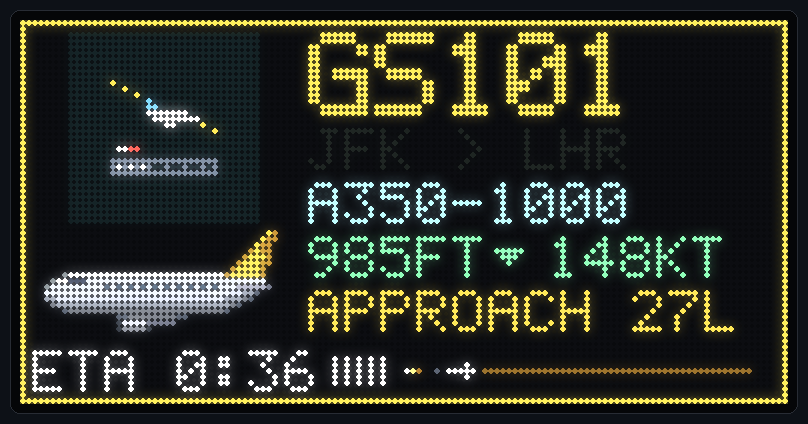
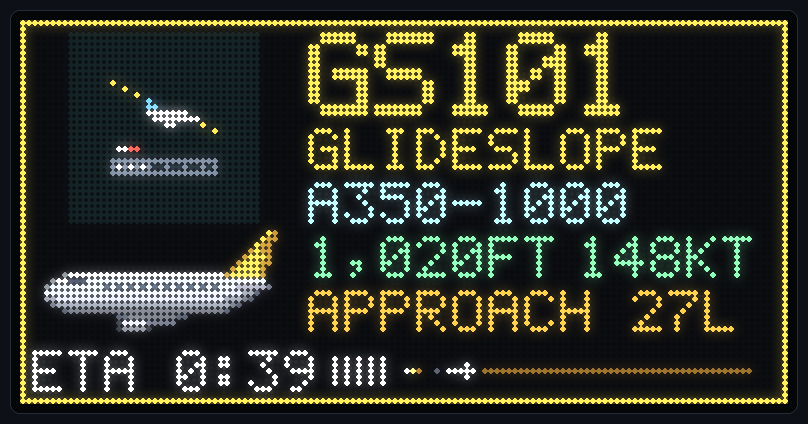
Social preview and showcase card for 4.0 (card caught fully lit)

Changed region(s): [[0.3713, 0.5519, 0.9282, 0.6745], [0.3713, 0.2759, 0.8354, 0.4292], [0.3403, 0.8278, 0.4022, 0.9198]]

diff --git a/tools/brand_workbench.py b/tools/brand_workbench.py
@@ -283,9 +283,9 @@ def social_card():
     body = font(['segoeui.ttf', 'DejaVuSans.ttf'], 28)
     d.text((70, 200), 'An LED flight board for the planes', font=bold, fill=(235, 240, 245))
     d.text((70, 252), 'landing over your house.', font=bold, fill=(255, 185, 60))
-    for i, line in enumerate(['Live ADS-B: landings, go-arounds,',
-                              'take-offs, a map, arrivals and weather',
-                              'on a 128×64 LED panel.']):
+    for i, line in enumerate(['Live ADS-B on a 128×64 LED panel:',
+                              'landings in the real sky, take-offs,',
+                              'a map, weather, stats, holding stacks.']):
         d.text((72, 330 + i * 40), line, font=body, fill=(139, 148, 158))
     shot = ROOT / 'docs' / 'showcase-card.png'
     if shot.exists():

diff --git a/tools/record_demo.py b/tools/record_demo.py
@@ -172,7 +172,12 @@ def main():
     print(f'{a.out}: {len(images)} frames, {Path(a.out).stat().st_size // 1024} KB')
 
     # A still of the approach card for social previews and the like.
-    led_render(to_image(at(samples, 6.0)), cell=6, pad=20).save(Path(a.out).with_name('showcase-card.png'))
+    # The route line cross-fades with the airline name: take the moment it is brightest.
+    def route_lit(px):
+        return sum(((v >> 11) & 31) + ((v >> 5) & 63) // 2 + (v & 31)
+                   for y in range(13, 22) for v in px[y * W + 62:y * W + 128])
+    card = max((px for ms, px in samples if 2500 <= ms <= 8500), key=route_lit)
+    led_render(to_image(card), cell=6, pad=20).save(Path(a.out).with_name('showcase-card.png'))
 
 
 if __name__ == '__main__':
